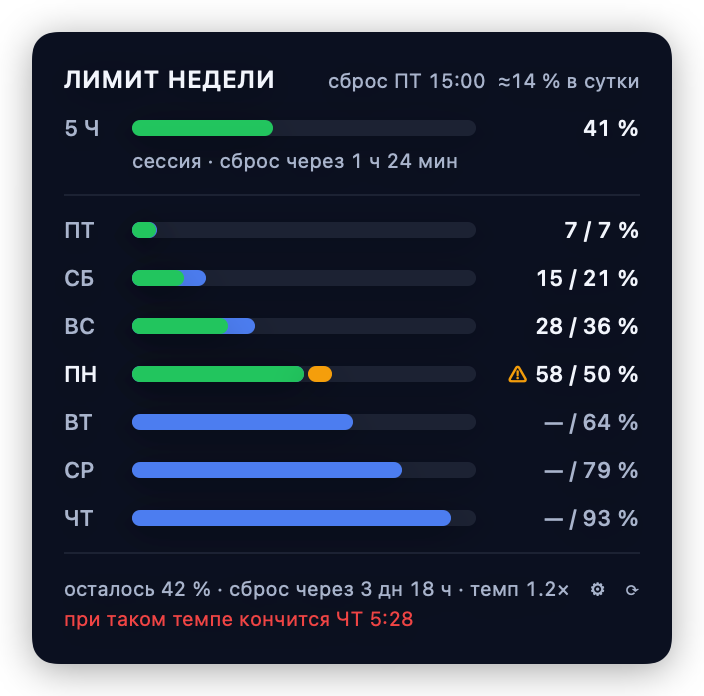
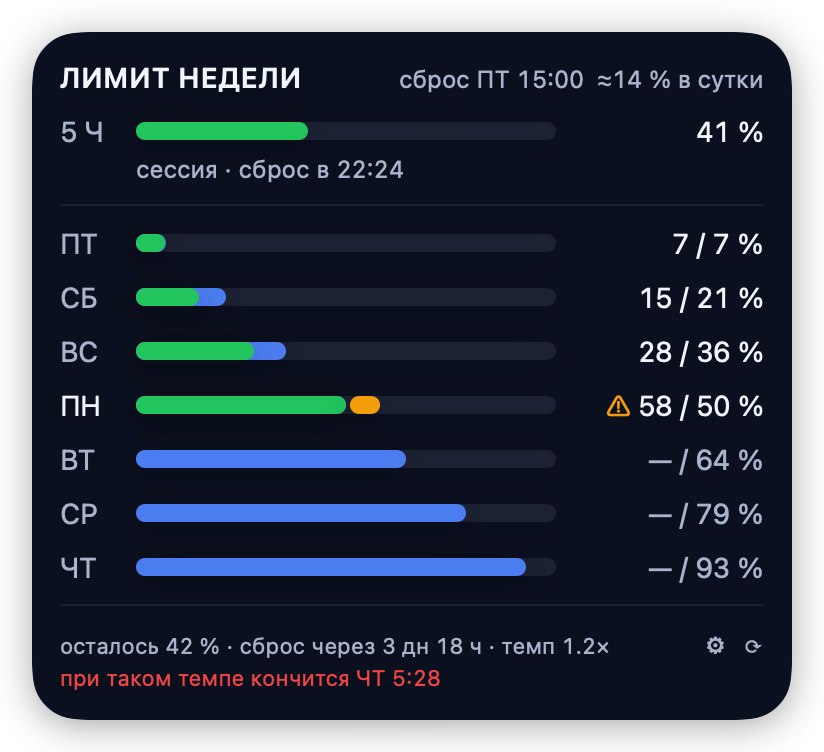
Привёл панель к кеглю и прозрачности системного меню

diff --git a/Sources/ClaudeWeekApp/Theme.swift b/Sources/ClaudeWeekApp/Theme.swift
@@ -91,8 +91,14 @@ struct Palette: Sendable, Equatable {
         critical: Ink(0xD03B3B),
         panelBackground: Ink(light: 0xFCFCFB, dark: 0x1A1A19),
         panelTint: Ink(light: 0xFFFFFF, dark: 0x000000),
-        primaryText: Ink(light: 0x0B0B0B, dark: 0xFFFFFF),
-        secondaryText: Ink(light: 0x52514E, dark: 0xC3C2B7),
+        // Плотности системных `labelColor` и `secondaryLabelColor`: на
+        // материале меню текст мешается с фоном ровно так же, как в пунктах
+        // соседей по строке меню, — чистый белый рядом с ними выглядит ярче
+        // системного. Вторичный на светлом фоне взят чуть плотнее системных
+        // 0.55: те дают 4.55:1, впритык к порогу, а так контраст сравнивается
+        // с тёмной темой — 6.0:1 против 5.9:1.
+        primaryText: Ink(light: 0x000000, dark: 0xFFFFFF, lightAlpha: 0.85, darkAlpha: 0.85),
+        secondaryText: Ink(light: 0x000000, dark: 0xFFFFFF, lightAlpha: 0.62, darkAlpha: 0.55),
         separator: Ink(light: 0xE1E0D9, dark: 0x2C2C2A),
         border: Ink(light: 0x000000, dark: 0xFFFFFF, lightAlpha: 0.12, darkAlpha: 0.13),
         material: .menu
@@ -193,27 +199,47 @@ extension EnvironmentValues {
 enum Theme {
     // MARK: Метрики
 
-    static let panelWidth: CGFloat = 320
-    static let panelPadding: CGFloat = 16
+    /// Под кегль меню: строка «⚠ 70 / 64 %» рядом с подписью дня и полосой
+    /// требует места, а заголовок держит две подписи справа от себя. Сводка
+    /// футера в одну строку — тот же предел.
+    static let panelWidth: CGFloat = 380
+    /// Поля как у пунктов системного меню.
+    static let panelPadding: CGFloat = 14
     /// Отступ от края экрана, когда пункт стоит у самого угла.
     static let panelScreenMargin: CGFloat = 8
     static let rowSpacing: CGFloat = 10
-    static let barHeight: CGFloat = 8
+    static let barHeight: CGFloat = 9
     /// Вторичный канал кодирования: держит границу читаемой там, где цвета
     /// сливаются (тританопия в тёмной теме даёт ΔE 5.1 на паре факт ↔ вылет).
     static let overspendGap: CGFloat = 2
-    static let dayLabelWidth: CGFloat = 26
-    static let valueWidth: CGFloat = 74
+    static let dayLabelWidth: CGFloat = 30
+    static let valueWidth: CGFloat = 96
     static let fillAnimation: TimeInterval = 0.35
+
+    /// Потолок вуали поверх материала. Единица шкалы — не «непрозрачный фон»:
+    /// плотная вуаль съедает размытие, и прозрачный режим переставал
+    /// отличаться от сплошного ничем, кроме оттенка. 0.55 — предел, за
+    /// которым материала уже не видно.
+    static let maxPanelTint: Double = 0.55
 
     // MARK: Шрифты
 
-    static let titleFont = Font.system(size: 12, weight: .semibold).monospacedDigit()
-    static let dayFont = Font.system(size: 11, weight: .medium).monospacedDigit()
-    static let footerFont = Font.system(size: 11).monospacedDigit()
-    /// Заголовочные подписи справа: в 288 pt рядом с «ЛИМИТ НЕДЕЛИ»
-    /// одиннадцатый кегль уже не помещается.
-    static let captionFont = Font.system(size: 10).monospacedDigit()
+    /// Кегль пунктов системного меню (14 pt на обычных настройках). Берём у
+    /// системы, а не числом: панель висит под строкой меню и должна читаться
+    /// как её продолжение, а с крупным текстом в универсальном доступе кегль
+    /// меняется.
+    static let menuFontSize = NSFont.menuFont(ofSize: 0).pointSize
+    /// Сноски — на два кегля мельче основного текста, как в меню.
+    static let captionFontSize = menuFontSize - 2
+
+    static let titleFont = Font.system(size: menuFontSize, weight: .semibold).monospacedDigit()
+    static let dayFont = Font.system(size: menuFontSize).monospacedDigit()
+    /// Кнопки футера: глифы ⚙ и ⟳ в кегле сноски становятся неприцельными.
+    static let actionFont = Font.system(size: menuFontSize)
+    /// Сводка футера — самая мелкая строка панели: в кегле сноски «осталось
+    /// 42 % · сброс через 3 дн 18 ч · темп 1.2×» рвётся на два ряда.
+    static let footerFont = Font.system(size: menuFontSize - 3).monospacedDigit()
+    static let captionFont = Font.system(size: captionFontSize).monospacedDigit()
 }
 
 extension Color {

diff --git a/Sources/ClaudeWeekApp/PopoverView.swift b/Sources/ClaudeWeekApp/PopoverView.swift
@@ -53,7 +53,10 @@ struct PopoverView: View {
     @ViewBuilder
     private var backdrop: some View {
         if appearance.transparentPanel {
-            palette.panelTint.color.opacity(appearance.panelTintOpacity)
+            // Вуаль идёт по шкале с потолком: на полной плотности она гасила
+            // материал целиком, и «прозрачный фон с размытием» отличался от
+            // сплошного только оттенком.
+            palette.panelTint.color.opacity(appearance.panelTintOpacity * Theme.maxPanelTint)
         } else {
             palette.panelBackground.color
         }
@@ -148,7 +151,7 @@ struct PopoverView: View {
         HStack(alignment: .firstTextBaseline) {
             VStack(alignment: .leading, spacing: 2) {
                 Text(summary)
-                    .font(Theme.captionFont)
+                    .font(Theme.footerFont)
                     .foregroundStyle(
                         model.resetIsClose ? palette.warning.color : palette.secondaryText.color
                     )
@@ -156,7 +159,7 @@ struct PopoverView: View {
 
                 if appearance.showForecast, let forecast {
                     Text(forecast)
-                        .font(Theme.captionFont)
+                        .font(Theme.footerFont)
                         .foregroundStyle(palette.critical.color)
                 }
             }
@@ -166,7 +169,7 @@ struct PopoverView: View {
             HStack(spacing: 10) {
                 Button(action: onSettings) {
                     Text("⚙")
-                        .font(Theme.footerFont)
+                        .font(Theme.actionFont)
                         .foregroundStyle(palette.secondaryText.color)
                 }
                 .buttonStyle(.plain)
@@ -174,7 +177,7 @@ struct PopoverView: View {
 
                 Button(action: onRefresh) {
                     Text(model.isRefreshing ? "…" : "⟳")
-                        .font(Theme.footerFont)
+                        .font(Theme.actionFont)
                         .foregroundStyle(palette.secondaryText.color)
                 }
                 .buttonStyle(.plain)

diff --git a/Sources/ClaudeWeekCore/Config.swift b/Sources/ClaudeWeekCore/Config.swift
@@ -71,8 +71,10 @@ public struct AppearanceConfig: Codable, Sendable, Equatable {
     /// Фон панели — материал строки меню (полупрозрачный с размытием).
     /// Выключено — сплошная заливка палитры.
     public var transparentPanel: Bool
-    /// Плотность вуали поверх материала, 0…1: 0 — чистый материал (самый
-    /// светлый), 1 — фон почти непрозрачный.
+    /// Плотность вуали поверх материала, 0…1: 0 — чистый материал строки
+    /// меню, 1 — самая плотная вуаль, сквозь которую размытие ещё видно.
+    /// Дальше идёт не «почти непрозрачный фон», а выключенная прозрачность:
+    /// глухая заливка — это отдельный режим, а не край ползунка.
     public var panelTintOpacity: Double
     /// Скругление углов панели, pt.
     public var cornerRadius: Double
@@ -86,7 +88,7 @@ public struct AppearanceConfig: Codable, Sendable, Equatable {
     public init(
         theme: ThemeKind = .system,
         transparentPanel: Bool = true,
-        panelTintOpacity: Double = 0.45,
+        panelTintOpacity: Double = 0.18,
         cornerRadius: Double = 12,
         showSession: Bool = true,
         showForecast: Bool = true,

diff --git a/Sources/ClaudeWeekApp/SettingsView.swift b/Sources/ClaudeWeekApp/SettingsView.swift
@@ -181,8 +181,10 @@ private struct AppearanceSettings: View {
                     }
                 }
                 Text("""
-                Ноль плотности — чистый материал системы, единица — фон почти \
-                непрозрачный. Как это выглядит, видно на самой панели: она \
+                Ноль плотности — чистый материал строки меню, как у системных \
+                меню; дальше вуаль подкрашивает его, но размытие остаётся \
+                видно. Нужен глухой фон — выключите прозрачность, это \
+                отдельный режим. Как это выглядит, видно на самой панели: она \
                 висит у строки меню, пока открыто это окно.
                 """)
                 .font(.caption)

diff --git a/docs/PLAN.md b/docs/PLAN.md
@@ -448,8 +448,8 @@ codesign --force --sign - ClaudeWeek.app     # ad-hoc подпись
 | **Вылет за план** | `#fab219` | `#fab219` | статус «warning» |
 | Критично (≥100 % / прогноз исчерпания) | `#d03b3b` | `#d03b3b` | только в заголовке и иконке |
 | Фон панели | `#fcfcfb` | `#1a1a19` | только `--screenshot`; живьём — `NSVisualEffectView` |
-| Основной текст | `#0b0b0b` | `#ffffff` | |
-| Вторичный текст | `#52514e` | `#c3c2b7` | подписи дней, футер |
+| Основной текст | чёрный 85 % | белый 85 % | плотность системного `labelColor` |
+| Вторичный текст | чёрный 62 % | белый 55 % | подписи дней, футер; 6.0:1 и 5.9:1 к фону |
 
 Результаты проверки и что с ними делаем:
 
@@ -469,16 +469,24 @@ codesign --force --sign - ClaudeWeek.app     # ad-hoc подпись
 
 ### 5.3 Типографика и метрики
 
-- Системный шрифт (SF), заголовок 13 pt semibold с трекингом, дни 11 pt,
-  проценты 13 pt semibold, футер 11 pt вторичным цветом.
+- Кегль системного меню (`NSFont.menuFont`, 14 pt на обычных настройках):
+  панель висит под строкой меню и читается как её продолжение. Заголовок —
+  тот же кегль semibold с трекингом, дни и проценты — обычным начертанием,
+  сноски на 2 pt мельче, сводка футера — на 3 pt, вторичным цветом.
 - Числа — `monospacedDigit()`, чтобы при обновлении не дёргалась вёрстка.
-- Панель: ширина 320 pt, внутренние отступы 16 pt, шаг между строками 10 pt.
+- Панель: ширина 380 pt, внутренние отступы 14 pt, шаг между строками 10 pt.
+  Ширину держит футер: сводка «осталось 42 % · сброс через 3 дн 18 ч · темп
+  1.2×» должна вставать в одну строку.
 - Тема следует системной (`NSApp.effectiveAppearance`), переключается на лету.
 - Форма — как у системных меню строки: своё окно (`NSPanel`, `DropdownPanel`)
   без стрелки-хвостика, верхней кромкой вплотную к строке меню, появление без
   анимации, фон — материал `.menu` с тонкой вуалью поверх (`Theme.panelTint`),
   скругление 12 pt. `NSPopover` не подошёл: стрелку не убрать, отступает от
   строки и рисует свой непрозрачный фон.
+- Плотность вуали идёт по шкале с потолком `Theme.maxPanelTint` (0.55): на
+  полной вуаль гасила материал целиком, и «прозрачный фон с размытием»
+  отличался от сплошного одним оттенком. Глухой фон — отдельный режим
+  (`transparentPanel`), а не край ползунка.
 
 ### 5.4 Строка меню
 

diff --git a/README.md b/README.md
@@ -188,7 +188,7 @@ Claude Code из Keychain (запись `Claude Code-credentials`) и потом
 |---|---|
 | Палитра | системная, полночь, графит, бумага, контраст |
 | Прозрачный фон | материал системного меню с размытием либо сплошная заливка палитры |
-| Плотность фона | 0 — чистый материал (самый светлый), 1 — фон почти непрозрачный |
+| Плотность фона | 0 — чистый материал, как у системных меню; 1 — плотная вуаль, сквозь которую размытие ещё видно |
 | Скругление углов | 0–24 pt |
 | Строка сессии | показывать ли пятичасовой лимит |
 | Прогноз | вторая строка футера «при таком темпе кончится …» |
@@ -234,7 +234,7 @@ Claude Code из Keychain (запись `Claude Code-credentials`) и потом
 | `thresholds.warn` / `.critical` | `1.0` / `0.9` | когда желтеет цифра в строке меню и когда тревожатся заголовок и сессия |
 | `appearance.theme` | `system` | `system`, `midnight`, `graphite`, `paper`, `contrast` |
 | `appearance.transparentPanel` | `true` | материал с размытием или сплошной фон |
-| `appearance.panelTintOpacity` | `0.45` | плотность вуали поверх материала, 0…1 |
+| `appearance.panelTintOpacity` | `0.18` | плотность вуали поверх материала, 0…1 |
 | `appearance.cornerRadius` | `12` | скругление углов панели, pt |
 | `appearance.showSession` / `.showForecast` | `true` / `true` | показывать строку сессии и прогноз |
 | `appearance.sessionReset` | `relative` | подпись сброса сессии: `relative` («через 1 ч 12 мин»), `absolute` («в 14:35») или `both` |
